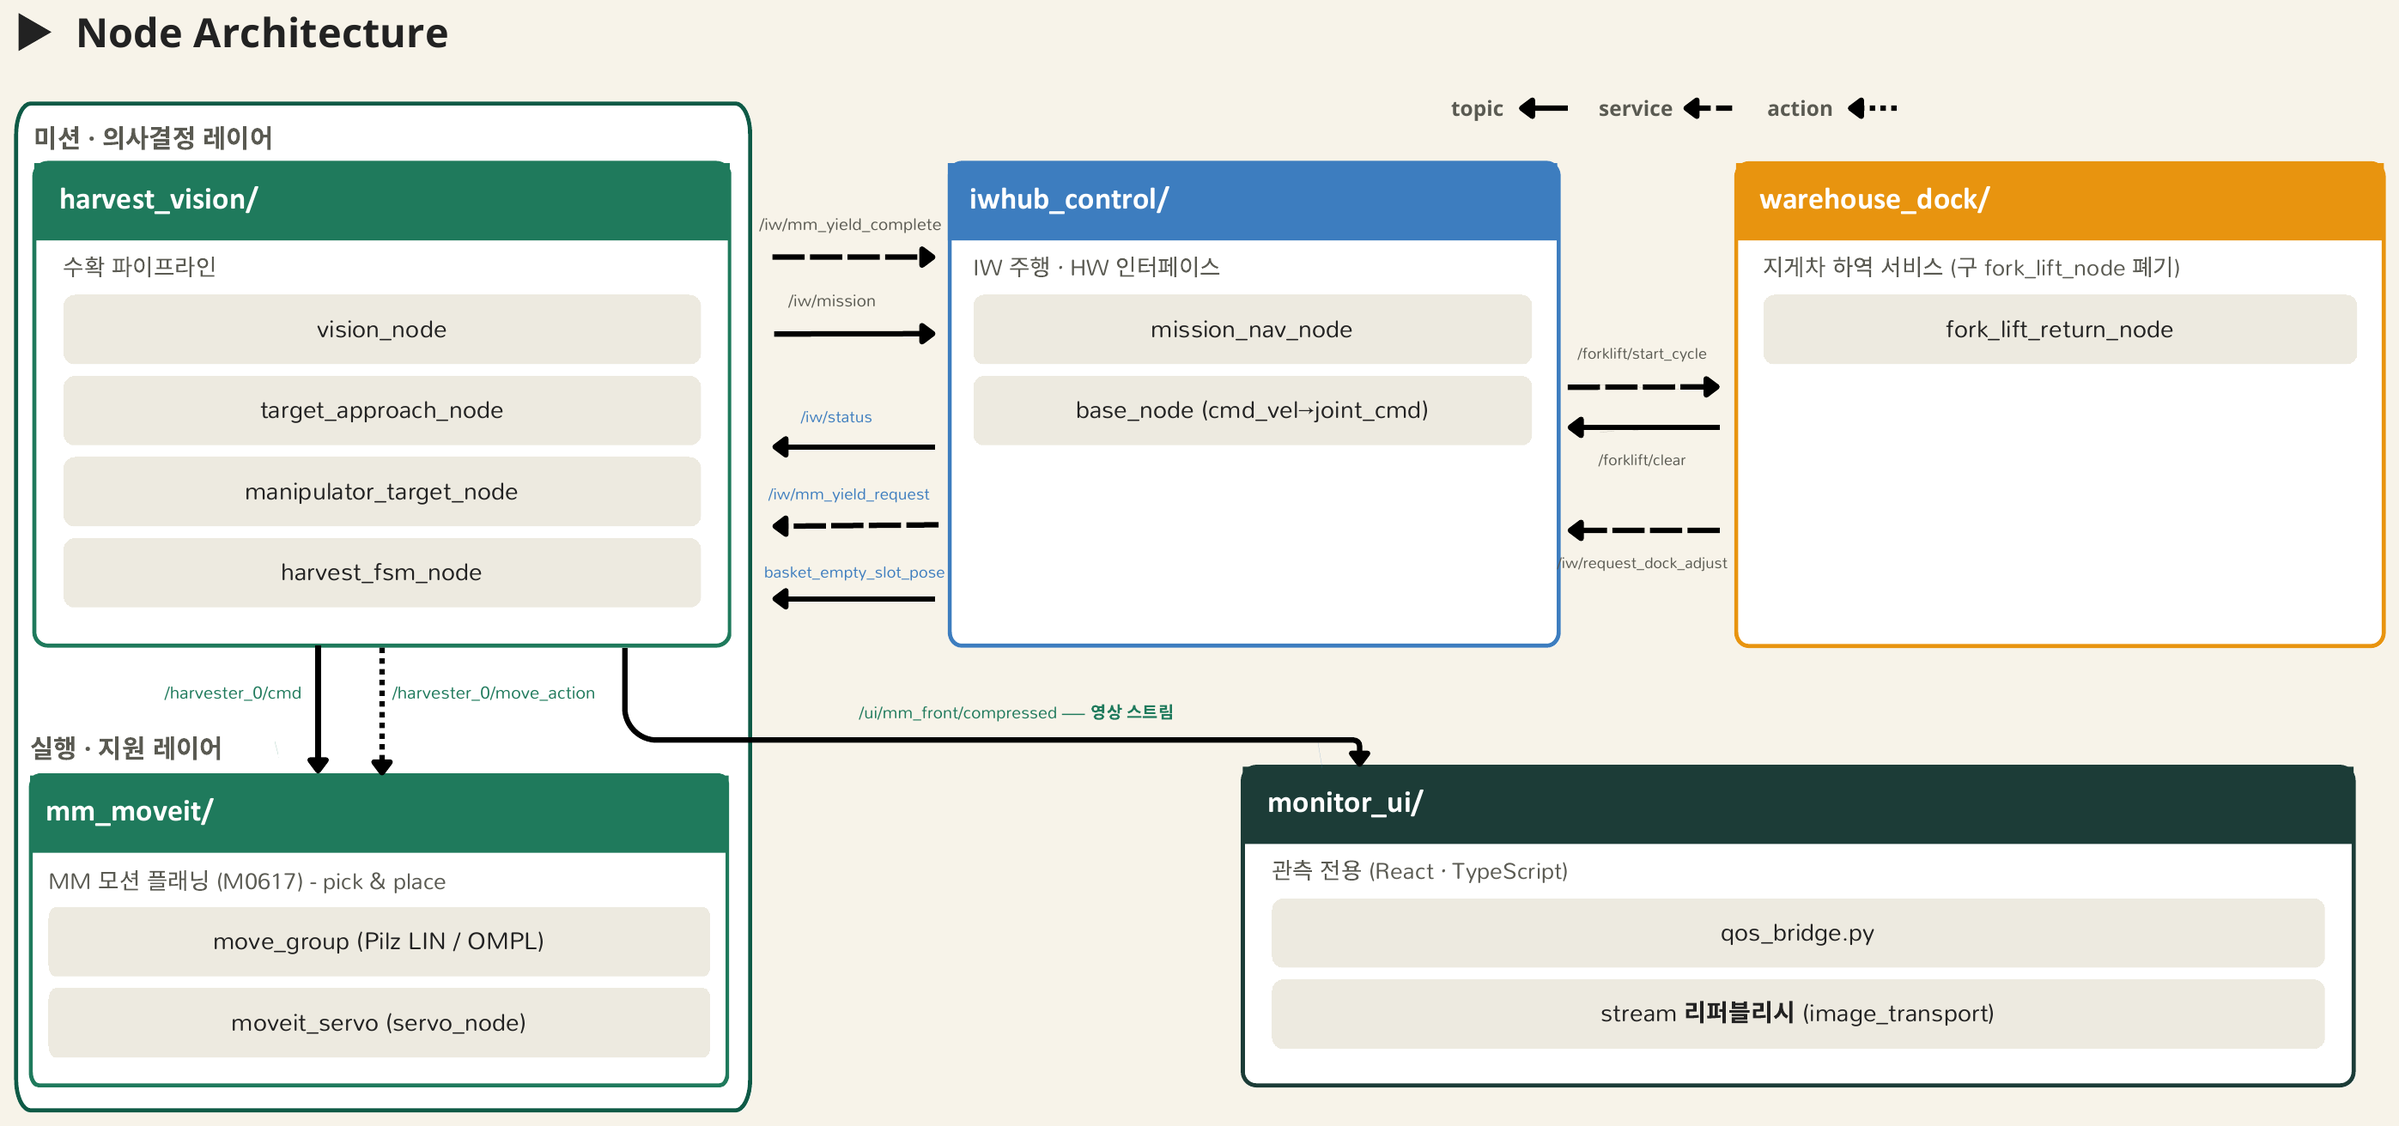
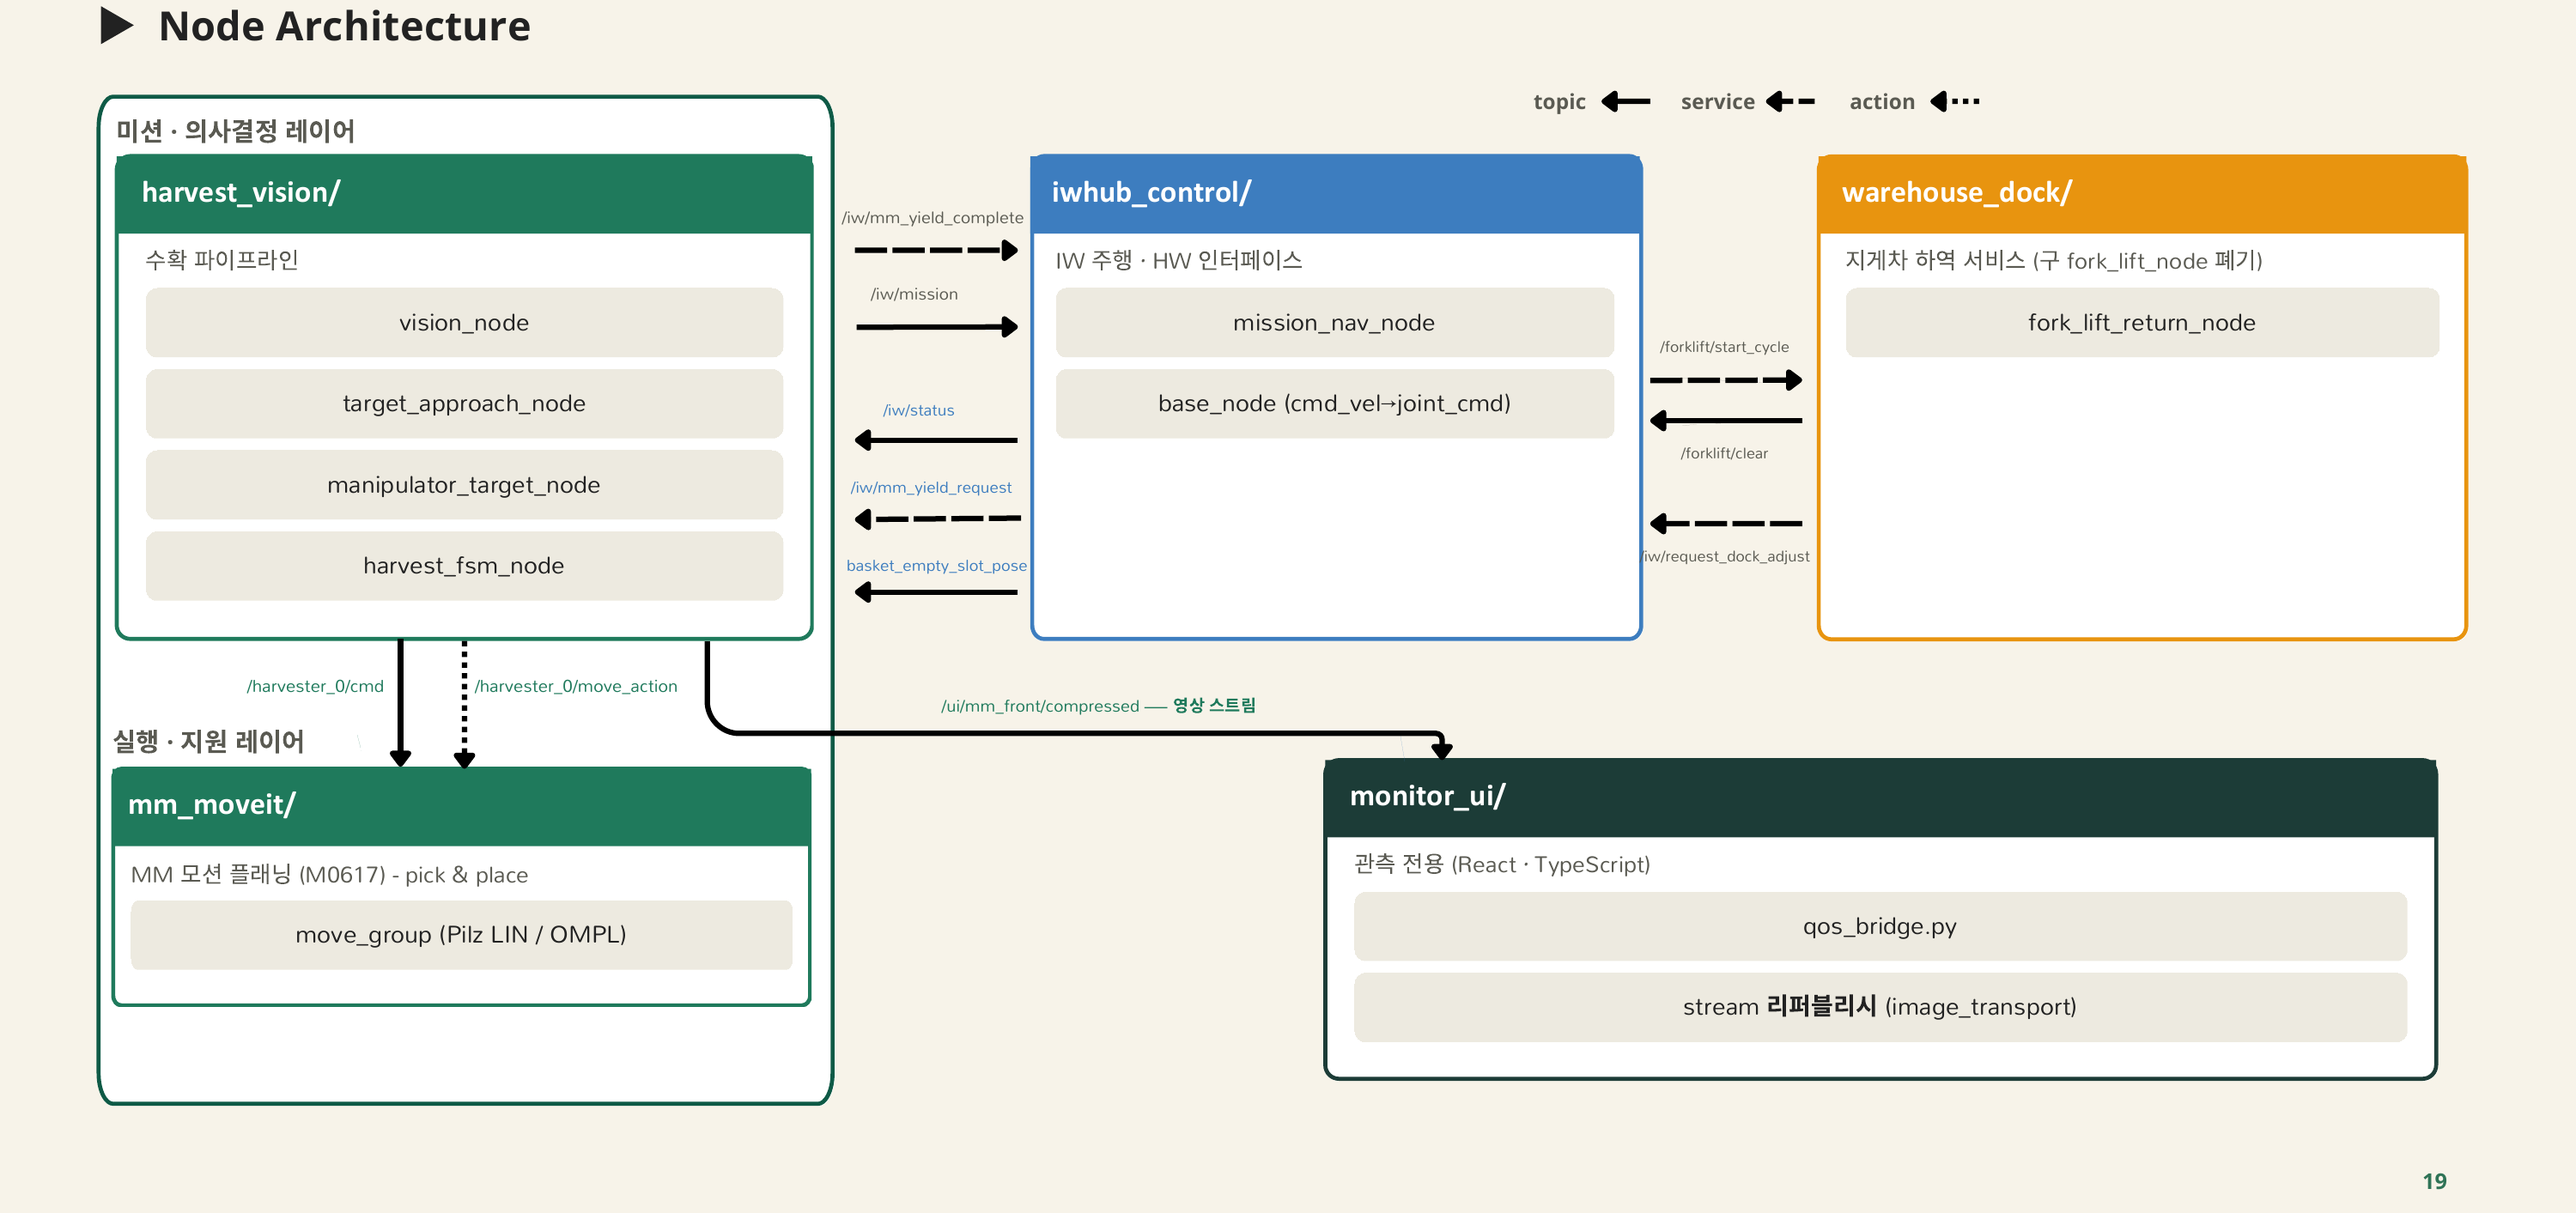
docs: 시스템·노드 아키텍처 다이어그램을 최신 발표자료 기준으로 교체
기존 이미지는 "개인 PC · ROS2 Humble + GPU 노트북" 구버전 구성이었다.
최신 발표자료(A-2_협동3, 2026-07-29)의 System Architecture / Node
Architecture 슬라이드로 교체하고, PC 구성 캡션을 함께 고쳤다.

- system_architecture.png: GPU PC A(시뮬레이션·관제) / GPU PC B(ROS 2
  판단·추론) 2-PC 구성으로 변경. 관제 UI가 PC B가 아니라 Isaac Sim과
  같은 PC A에 있다는 점이 구버전과 가장 크게 다르다.
- node_architecture.png: 미션·의사결정 / 실행·지원 레이어 구분 반영.

diff --git a/README.md b/README.md
@@ -102,7 +102,9 @@ Isaac Sim은 물리(PhysX)·센서·액추에이터만 담당합니다.
 
 ![System Architecture](docs/media/system_architecture.png)
 
-판단(개인 PC · ROS 2 Humble)과 실행(GPU 노트북 · Isaac Sim 5.1)이 동일 DDS로 직접 연결됩니다.
+**GPU PC A(시뮬레이션·관제)**와 **GPU PC B(ROS 2 판단·추론)** 두 대를 동일 ROS 2 DDS로 직접 연결합니다.
+PC A는 Isaac Sim 5.1 Standalone과 관제 UI(React · TS · Vite)를, PC B는 YOLO 비전 추론 · MoveIt 2 + Nav2 · 미션 FSM을 맡습니다.
+로봇 3대(`harvester_0` / `iwhub_0` / `forklift_0`)와 온실·창고 씬, CCTV 4대는 모두 PC A의 Isaac Sim 씬에 스폰되고 **Action Graph 브리지**로 토픽을 주고받습니다.
 
 ![Node Architecture](docs/media/node_architecture.png)
 
